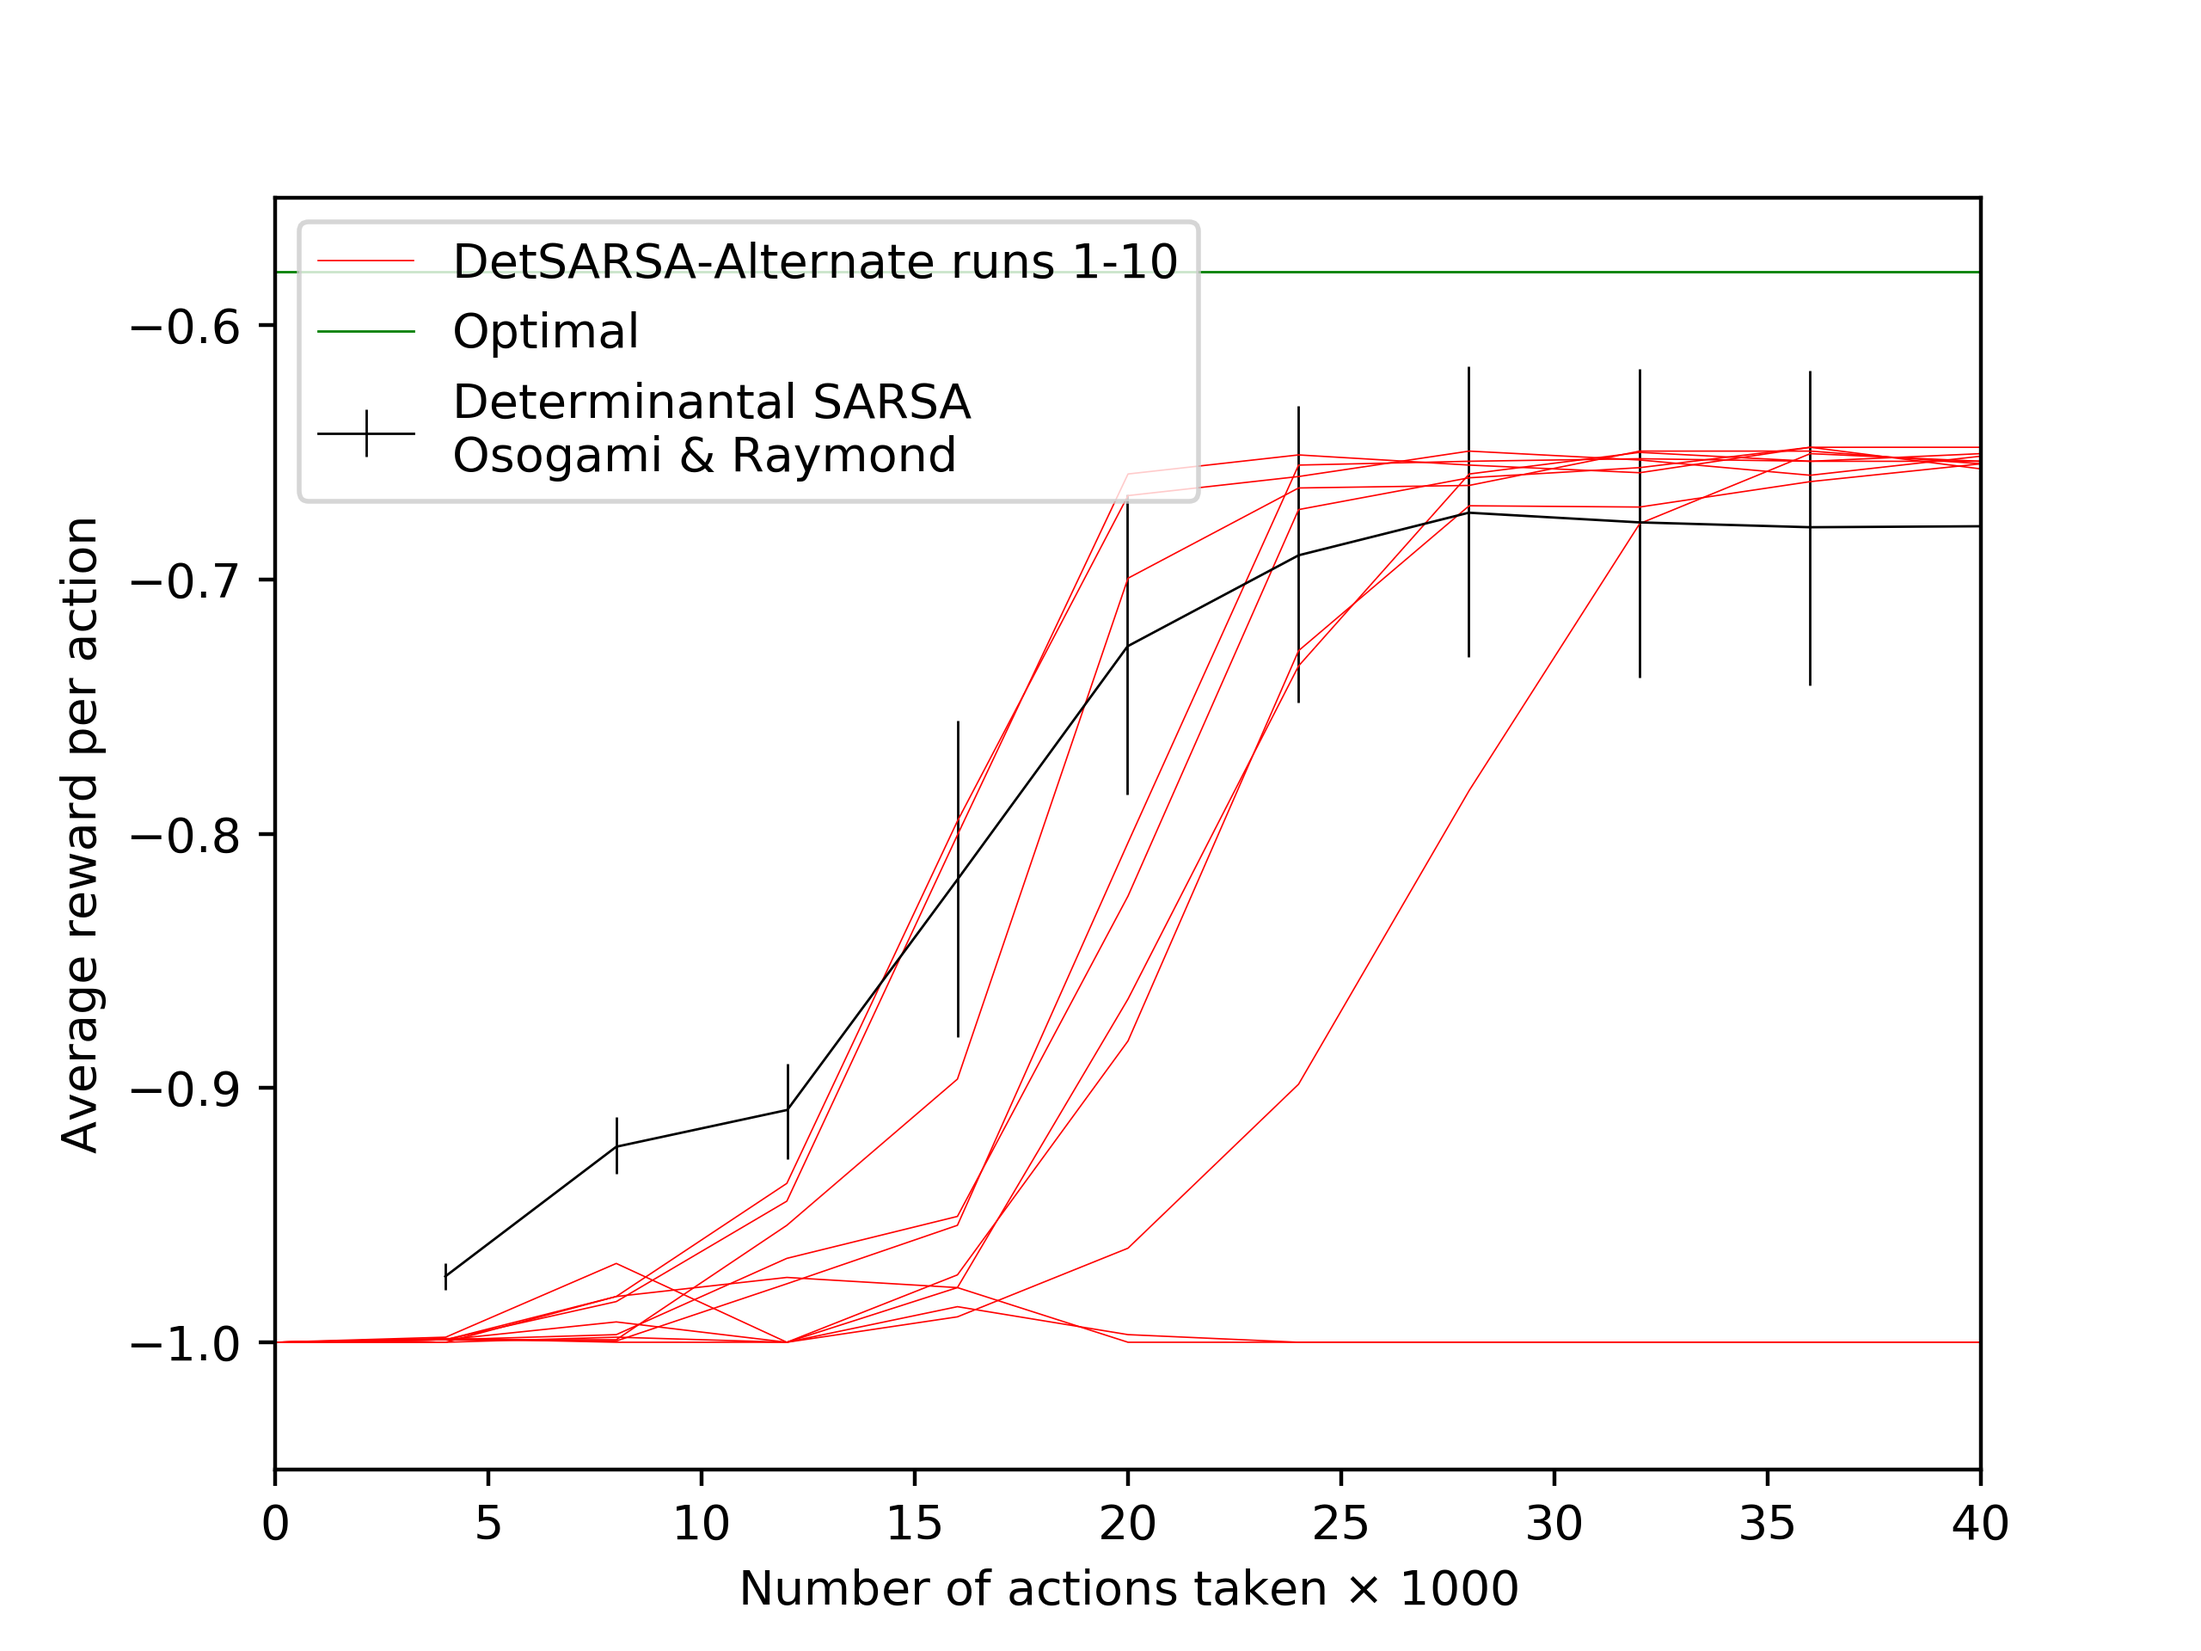
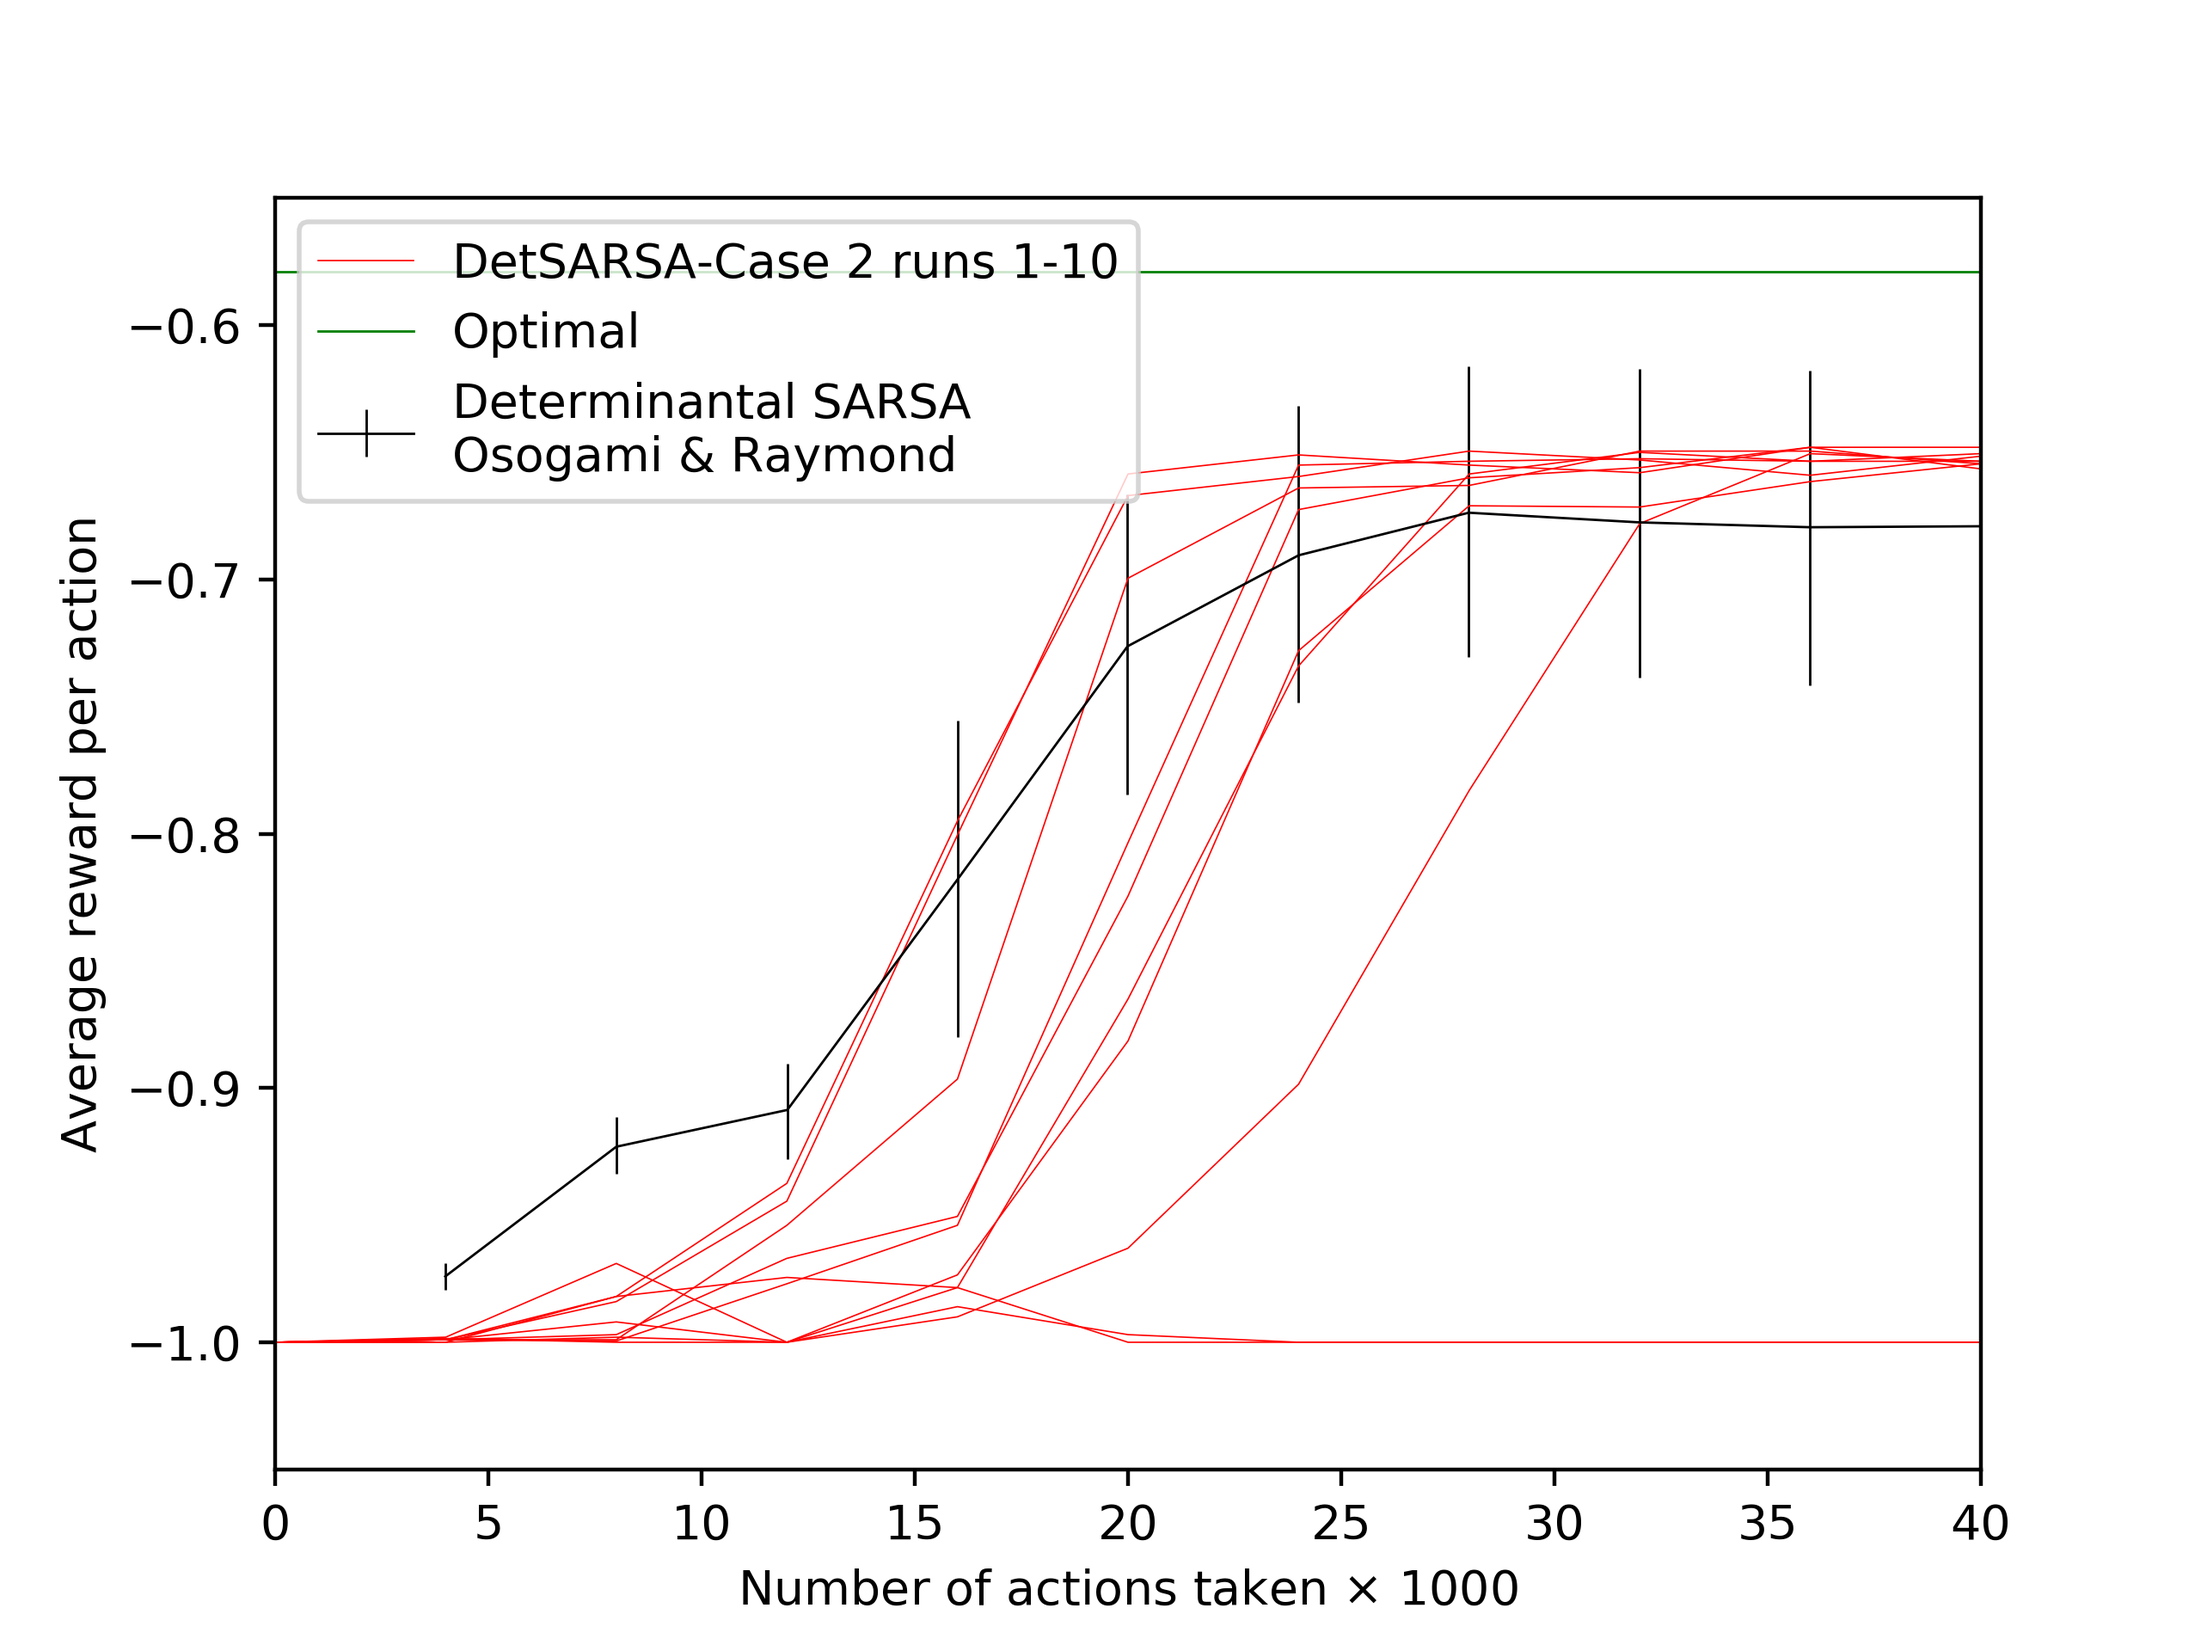
final commit

Changed region(s): [[0.3125, 0.125, 0.5625, 0.1875], [0.5, 0.2812, 0.5625, 0.3125]]

diff --git a/ReinforcementLearningWithDPPs/root1_Correct-Assumptions/CompareLearningRates.py b/ReinforcementLearningWithDPPs/root1_Correct-Assumptions/CompareLearningRates.py
@@ -182,6 +182,9 @@ if __name__ == '__main__':
                      'ESARSA':(6, p+'HessSilverTeh/ESARSA-plot-data.json', 'chartreuse')}
     data = {}
     # (bi, bf, es, ec): 1: (2, 5e4, 5e4, 3e-3), 2: (20, 2e4, 4e4, 5e-4)
+    # data.update({'Det-SARSA':(1, '../root2_Assumptions-from-Osogami-and-Raymond/plots/datasets/det-sarsa-data-10runs.json', PALATINATE)})
+    # data.update(SilverHessTeh)
+    # plotMultiple(data, fn='old_comparison', mask=None)
     data.update({'MDet-SARSA 1':(1, '../HamiltonDir/data/d343.json', PALATINATE)})#{'DetSARSA-Model1':(path2, PALATINATE)})#, 'detSarsaNNModelMean':path4})
     data.update({'MDet-SARSA 2':(2, '../HamiltonDir/data/d886.json', 'r')})
     data.update(SilverHessTeh)

diff --git a/ReinforcementLearningWithDPPs/root2_Assumptions-from-Osogami-and-Raymond/CompareLearningRates.py b/ReinforcementLearningWithDPPs/root2_Assumptions-from-Osogami-and-Raymond/CompareLearningRates.py
@@ -239,9 +239,9 @@ if __name__ == '__main__':
 
     # data = {'DetSARSA':path1, 'DetQ-learning':path3}#, 'DetSARSA-variant':path5}
     # zoomedPlot(data, all_runs=False)
-    data = {'DetSARSA-Alternate':path5}
+    data = {'DetSARSA-Case 2':path5}
     zoomedPlot(data, all_runs=True, errBar=False, fname='AlternateForm')
-    data = {'DetSARSA-Mine':path1}
+    data = {'DetSARSA-Case 1':path1}
     zoomedPlot(data, all_runs=True, errBar=False, fname='MyForm')
 
 

diff --git a/LearningDPPs/GradientAscent.py b/LearningDPPs/GradientAscent.py
@@ -54,7 +54,7 @@ def SGD(theta, A, m, batch_size=10, decay_start=20, alpha_0 = 1):
     return theta, grad
 
 def Adam(theta, A, n_iter, alpha=0.5, batch_size=10, beta_1=0.9, beta_2=0.999, epsilon=0.001):
-    m, v = np.zeros(len(theta))
+    m, v = np.zeros(len(theta)), np.zeros(len(theta))
     grad = []
     for t in range(1, n_iter+1):
         As = A[np.random.randint(0, len(A), batch_size)]

diff --git a/ReinforcementLearningWithDPPs/root2_Assumptions-from-Osogami-and-Raymond/SARSA/onehotSARSA.py b/ReinforcementLearningWithDPPs/root2_Assumptions-from-Osogami-and-Raymond/SARSA/onehotSARSA.py
@@ -118,7 +118,6 @@ class onehotSARSA:
             state, action = next_state, next_action
             
             if done: 
-                print("YAS")
                 return t
         return epLen
         
